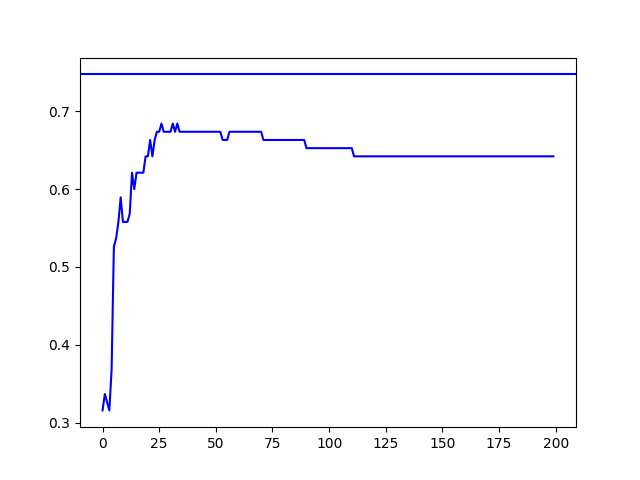
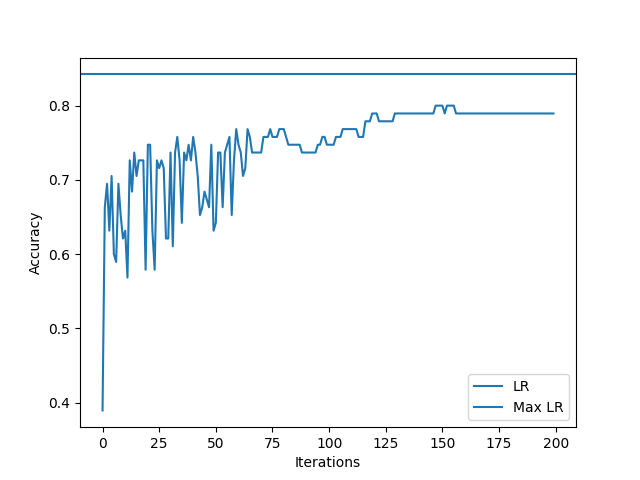
modified:   AnonymVFL/LR.py 	modified:   AnonymVFL/SVM.py 	modified:   LR.png 	modified:   SVM.png

diff --git a/AnonymVFL/SVM.py b/AnonymVFL/SVM.py
@@ -22,7 +22,7 @@ class SVMSS:
 from sklearn.metrics import accuracy_score
 from tqdm import trange
 import matplotlib.pyplot as plt
-def train(train_X : SharedVariable, train_y : SharedVariable, test_X, test_y, n_iter = 20000) -> SharedVariable:
+def train(train_X : SharedVariable, train_y : SharedVariable, test_X, test_y, n_iter = 5000) -> SharedVariable:
     num_samples, num_features = train_X.shape()
     lambda_ = 0.00001
     SS_model = SVMSS(num_features,lambda_)
@@ -48,11 +48,12 @@ def train(train_X : SharedVariable, train_y : SharedVariable, test_X, test_y, n_
         Accracy = accuracy_score(test_y, y_pred)
         if Accracy > max_acc:
             max_acc = Accracy
-        if t % 100 == 0:
-            accs.append(Accracy)
+        accs.append(Accracy)
 
-    plt.plot(accs,label = "SVM",color="red")
-    plt.axhline(max_acc, 0, len(accs), label="Max SVM",color="red")
+    plt.plot(accs,label = "SVM")
+    plt.axhline(max_acc, 0, len(accs), label="Max SVM")
+    plt.xlabel("Iterations")
+    plt.ylabel("Accuracy")
     plt.legend()
     plt.savefig("SVM.png")
     return SS_model.w

diff --git a/AnonymVFL/LR.py b/AnonymVFL/LR.py
@@ -1,3 +1,4 @@
+from matplotlib import legend
 from SharedVariable import SharedVariable
 import numpy as np
 from tqdm import trange
@@ -52,9 +53,13 @@ def train(train_X : SharedVariable, train_y : SharedVariable, test_X, test_y, n_
             if Accracy > max_acc:
                 max_acc = Accracy
         accs.append(Accracy)
-    plt.plot(accs,label = "LR",color="blue")
-    plt.axhline(max_acc, 0, len(accs), label="Max LR",color="blue")
+    plt.plot(accs,label = "LR")
+    plt.axhline(max_acc, 0, len(accs), label="Max LR")
+    plt.xlabel("Iterations")
+    plt.ylabel("Accuracy")
+    plt.legend()
     plt.savefig("LR.png")
+    plt.close()
     return SS_model.w
 
 import pandas as pd
